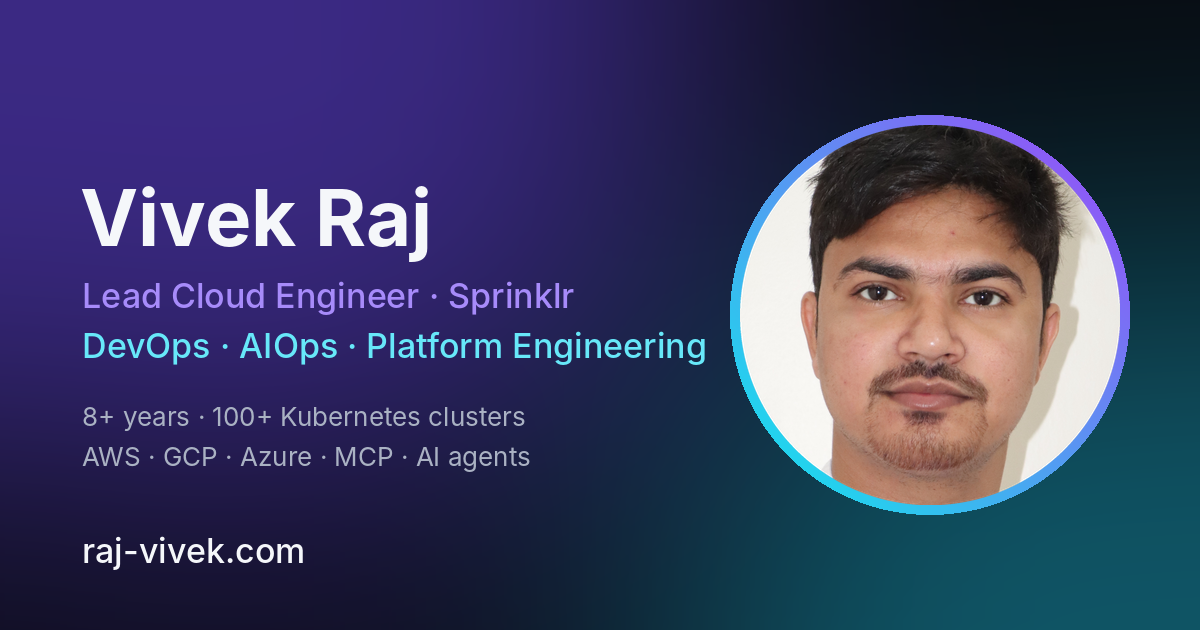
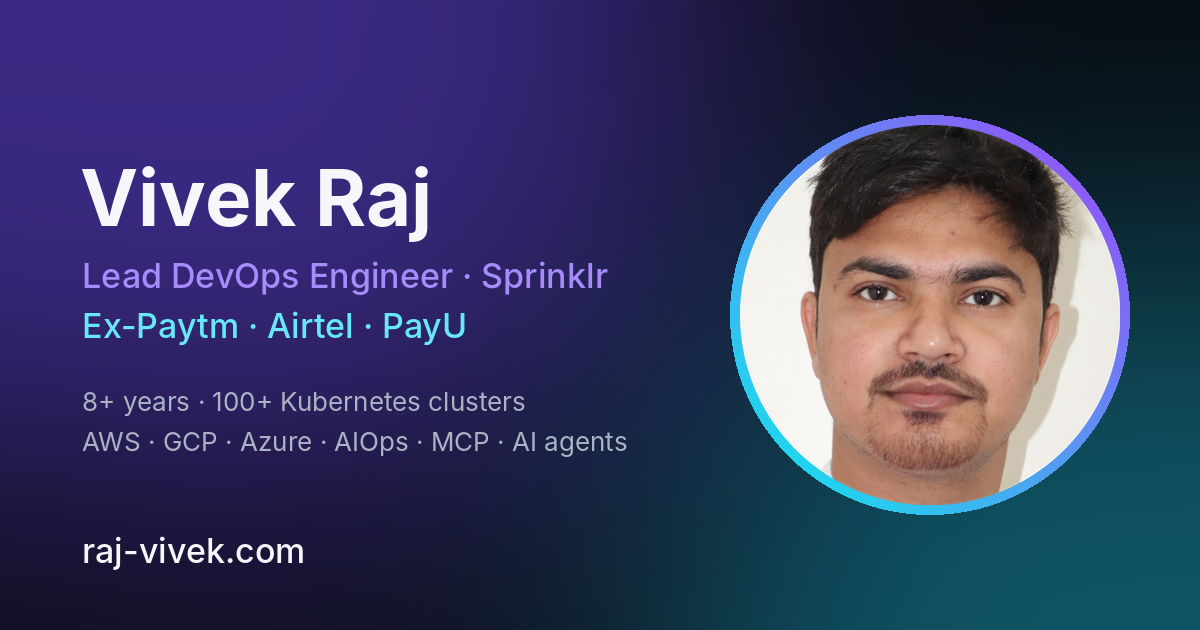
Target name and employer searches in SEO
- Title and description name Vivek Raj / Raj Vivek, DevOps, Sprinklr,
  Paytm, Airtel and PayU, within Google's display lengths
- JSON-LD: ProfilePage wrapping the Person, alternateName "Raj Vivek",
  current employer, past employers and occupations read from
  experience.json
- Name-plus-employer keywords, descriptive hero photo alt text
- Share card lists past employers

Changed region(s): [[0.0617, 0.2714, 0.5858, 0.573], [0.0617, 0.6032, 0.5242, 0.754]]

diff --git a/app/layout.tsx b/app/layout.tsx
@@ -6,7 +6,7 @@ import { CursorGlow } from '@/components/fx/CursorGlow';
 import { ScrollProgress } from '@/components/fx/ScrollProgress';
 import { AnimatedBackground } from '@/components/fx/AnimatedBackground';
 
-const { meta, skills } = data;
+const { meta, skills, experience } = data;
 const [firstName, ...rest] = meta.person.name.split(' ');
 const ogImage = { url: meta.site.ogImage, width: 1200, height: 630, alt: meta.site.title };
 
@@ -44,21 +44,46 @@ export const metadata: Metadata = {
   ...(meta.site.googleVerification && { verification: { google: meta.site.googleVerification } }),
 };
 
-/** schema.org Person + WebSite, so search engines can tie the name to this site, the photo and the linked profiles. */
+const org = (name: string) => ({ '@type': 'Organization', name });
+const current = experience.items.filter((i) => i.end === 'Present');
+const past = experience.items.filter((i) => i.end !== 'Present');
+
+/**
+ * schema.org ProfilePage + Person + WebSite, so search engines can tie the name (and its alternate spellings) to this
+ * site, the photo, the linked profiles and every employer in experience.json.
+ */
 const structuredData = {
   '@context': 'https://schema.org',
   '@graph': [
     {
+      '@type': 'ProfilePage',
+      '@id': `${meta.site.url}/#profile`,
+      url: `${meta.site.url}/`,
+      name: meta.site.title,
+      dateModified: new Date().toISOString(),
+      mainEntity: { '@id': `${meta.site.url}/#person` },
+      isPartOf: { '@id': `${meta.site.url}/#website` },
+    },
+    {
       '@type': 'Person',
       '@id': `${meta.site.url}/#person`,
       name: meta.person.name,
+      ...(meta.person.alternateNames?.length && { alternateName: meta.person.alternateNames }),
       url: meta.site.url,
       image: new URL(meta.person.image ?? meta.site.ogImage, meta.site.url).toString(),
       email: `mailto:${meta.person.email}`,
       jobTitle: meta.person.jobTitle ?? meta.person.role,
       description: meta.site.description,
-      worksFor: { '@type': 'Organization', name: meta.person.company },
-      ...(meta.person.alumniOf && { alumniOf: { '@type': 'CollegeOrUniversity', name: meta.person.alumniOf } }),
+      worksFor: current.length ? current.map((i) => org(i.company)) : org(meta.person.company),
+      hasOccupation: experience.items.map((i) => ({
+        '@type': 'Occupation',
+        name: i.role,
+        description: `${i.role} at ${i.company} (${i.start} – ${i.end})`,
+      })),
+      alumniOf: [
+        ...(meta.person.alumniOf ? [{ '@type': 'CollegeOrUniversity', name: meta.person.alumniOf }] : []),
+        ...past.map((i) => org(i.company)),
+      ],
       ...(meta.person.address && {
         address: {
           '@type': 'PostalAddress',

diff --git a/components/sections/Hero.tsx b/components/sections/Hero.tsx
@@ -243,7 +243,7 @@ function ProfileOrb() {
       <div className="absolute inset-[14%] overflow-hidden rounded-full border border-border/60 glass-strong shadow-glow-accent">
         <Image
           src={profile.image}
-          alt={meta.person.name}
+          alt={`${meta.person.name} — ${meta.person.jobTitle ?? meta.person.role} at ${meta.person.company}`}
           fill
           sizes="(max-width: 1024px) 60vw, 30vw"
           priority

diff --git a/lib/types.ts b/lib/types.ts
@@ -13,6 +13,8 @@ export interface MetaData {
   };
   person: {
     name: string;
+    /** Other ways people search for the name; listed as schema.org `alternateName`. */
+    alternateNames?: string[];
     role: string;
     company: string;
     location: string;
